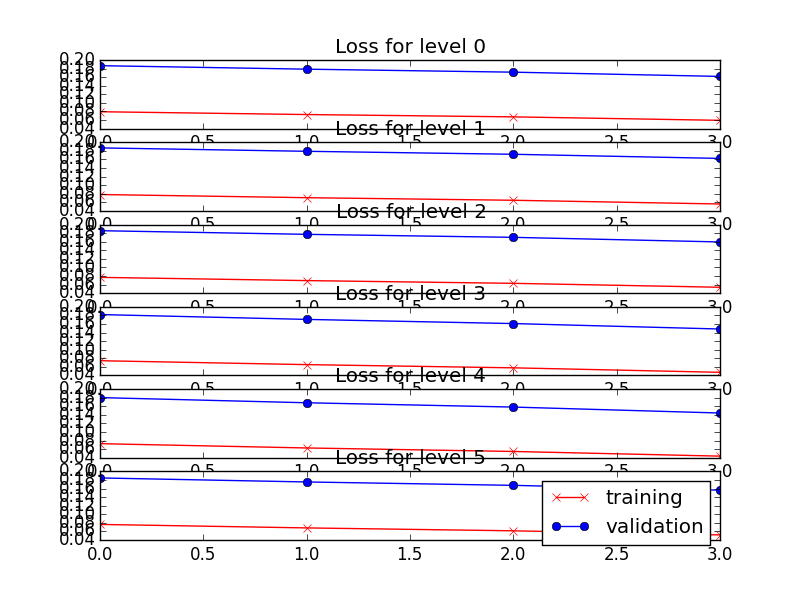
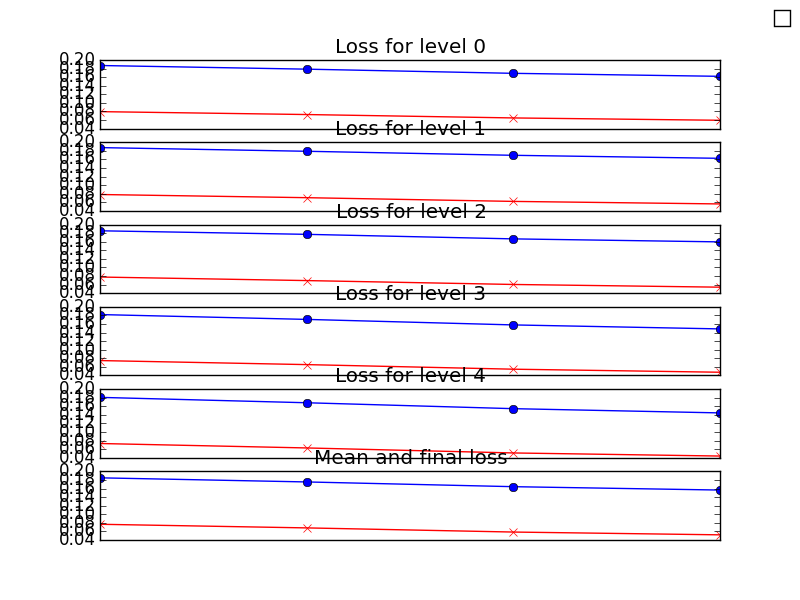
adding loss per level

diff --git a/SGD.py b/SGD.py
@@ -51,7 +51,7 @@ class SGD:
             self.predict = self.predict_max
         elif mode == 'multi':
             self.method = self.learn_multi
-            #self.loss = self.loss_mean
+            self.loss = self.loss_multi
             self.predict = self.predict_multi
             self.w_multi = np.zeros((self.prune_tree_levels,self.n_features))
             self.w_update = np.zeros((self.prune_tree_levels,self.n_features))
@@ -67,12 +67,27 @@ class SGD:
         level_preds, _ = self.predictor.get_iep_levels(img_data, [])
         return np.mean(np.array(level_preds) - img_data.y)**2 + self.alpha * math.sqrt(np.dot(self.w,self.w))
 
+    def loss_multi(self, img_data):
+        level_preds = []
+        for lvl in range(self.prune_tree_levels):
+            predictor = IEP.IEP(self.w_multi[level], 'prediction')
+            level_pred, _ = predictor.iep(img_data, [], level)
+            level_preds.append(level_pred)
+        return np.mean(np.array(level_preds) - img_data.y)**2 + self.alpha * math.sqrt(np.dot(self.w,self.w))
+
     def loss_per_level(self, img_data):
-        level_preds, _ = self.predictor.get_iep_levels(img_data, [])
-        # for images with less levels than prune_tree_levels, just append the last level
-        if len(level_preds) < self.prune_tree_levels:
-            for missing in range(self.prune_tree_levels - len(level_preds)):
-                level_preds.append(level_preds[-1])
+        if self.version == 'multi':
+            level_preds = []
+            for lvl in range(self.prune_tree_levels):
+                predictor = IEP.IEP(self.w_multi[level], 'prediction')
+                level_pred, _ = predictor.iep(img_data, [], level)
+                level_preds.append(level_pred)
+        else:
+            level_preds, _ = self.predictor.get_iep_levels(img_data, [])
+            # for images with less levels than prune_tree_levels, just append the last level
+            if len(level_preds) < self.prune_tree_levels:
+                for missing in range(self.prune_tree_levels - len(level_preds)):
+                    level_preds.append(level_preds[-1])
         return (np.array(level_preds) - img_data.y)**2 + self.alpha * math.sqrt(np.dot(self.w,self.w))
         
     def predict_mean(self, img_data):
@@ -94,7 +109,7 @@ class SGD:
     def predict_multi(self, img_data):
         print 'predict multi'
         preds = []
-        for level in img_data.levels:
+        for level in range(self.prune_tree_levels):
             predictor = IEP.IEP(self.w_multi[level], 'prediction')
             level_pred, _ = predictor.iep(img_data, [], level)
             preds.append(level_pred)
@@ -238,7 +253,7 @@ class SGD:
 
     def learn_multi(self, img_data, functions):
         ret = np.zeros((self.prune_tree_levels,self.n_features))
-        for level in img_data.levels:
+        for level in range(self.prune_tree_levels):
             predictor = IEP.IEP(self.w_multi[level], 'prediction')
             level_pred, _ = predictor.iep(img_data, [], level)
             iep_level, _ = self.learner.iep(img_data, functions, level)
@@ -253,15 +268,6 @@ class SGD:
             iep_level, _ = self.learner.iep(img_data, functions, level)
             self.w += (self.eta * ((preds_level - img_data.y) * -iep_level))#self.w -= (self.eta * (2*(preds_level - img_data.y)*iep_level))
             self.predictor = IEP.IEP(self.w, 'prediction')
-
-    #def learn_really_old(self, img_data):
-        #for level in img_data.levels:
-        #    for f_ in self.w:
-        #        inner_prod += (f_ * x_node[f_])
-        #    dloss = (inner_prod - y_node)
-        #    preds_level = self.predict_old(img_data, level)
-        #    for i_f,f in enumerate(self.w):
-        #        w[f] += (self.eta * ((preds_level - img_data.y) * -iep_level[i_f]))
 
     def learn_ind(self, img_data, functions):
         level_preds = self.predict_ind(img_data)

diff --git a/Output.py b/Output.py
@@ -28,7 +28,7 @@ class Output:
 		self.scaler_category_path = '/var/node436/local/tstahl/models/scaler_%s_pascal.p'%(category)
         self.classifier_path = '/var/node436/local/tstahl/models/classifier_%s.p'%(category)
 	self.feat_var_path = '/var/node436/local/tstahl/plos/feat_var.png'
-	self.loss_path = '/var/node436/local/tstahl/plos/loss_%s_%s_%s_%s_%s.png'
+	self.loss_path = '/var/node436/local/tstahl/plos/loss_%s_%s_%s_%s_%s_%s.png'
         
     def dump_scaler(self, scaler):
         pickle.dump(scaler, open(self.scaler_path, "wb"))
@@ -107,8 +107,8 @@ class Output:
         plt.clf()
         f,ax = plt.subplots(self.prune_tree_levels+1)
         for lvl in range(self.prune_tree_levels+1):
-            l1 = ax[lvl].plot(train[lvl], '-rx', label="training")
-            l2 = ax[lvl].plot(val[lvl], '-bo', label="validation")
+            ax[lvl].plot(train[lvl], '-rx', label="training")
+            ax[lvl].plot(val[lvl], '-bo', label="validation")
             ax[lvl].tick_params(
                 axis='x',          # changes apply to the x-axis
                 which='both',      # both major and minor ticks are affected
@@ -119,6 +119,6 @@ class Output:
                 ax[lvl].title.set_text("Mean and final loss")
             else:
                 ax[lvl].title.set_text("Loss for level %s"%(lvl))
-        f.legend((l1, l2), ('training','validation'), 'upper right')
-        plt.savefig(self.loss_path%(self.experiment,self.prune_tree_levels,eta,self.category, alpha))
+        plt.legend()
+        plt.savefig(self.loss_path%(self.experiment,self.prune_tree_levels,eta,self.category, alpha, self.mode))
         

diff --git a/Experiment1b.py b/Experiment1b.py
@@ -19,17 +19,17 @@ def main():
 
     learn_mode = 'category'
 
-    pred_mode = 'mean'
+    pred_mode = 'multi'
 
-    debug = False
+    debug = True
 
     batch_size = 5
 
-    epochs = 4
+    epochs = 2
 
     subsamples = 10
 
-    for tree_level_size in range(1,6):
+    for tree_level_size in range(5,6):
         #initialize
         print 'initializing', tree_level_size
         #sgd = SGD.SGD('max', category, tree_level_size, batch_size, math.pow(10,-4), 0.003, math.pow(10,-5))
@@ -77,10 +77,7 @@ def main():
                 training_loss = np.array([], dtype=np.int64).reshape(tree_level_size+1,0)
                 validation_loss = np.array([], dtype=np.int64).reshape(tree_level_size+1,0)
                 #sgd_pascal = SGD.SGD('pascal', 'max', category, tree_level_size, batch_size, eta_i, gamma_i, al_i)
-                if tree_level_size >= 1:
-                    sgd_dennis = SGD.SGD('dennis', pred_mode, category, tree_level_size, batch_size, math.pow(10,-6), gamma_i, al_i, 4096)
-                else:
-                    sgd_dennis = SGD.SGD('dennis', pred_mode, category, tree_level_size, batch_size, math.pow(10,-5), gamma_i, al_i, 4096)
+                sgd_dennis = SGD.SGD('dennis', pred_mode, category, tree_level_size, batch_size, math.pow(10,-5), gamma_i, al_i, 4096)
                 sgd_dennis.set_scaler(scaler_dennis)
                 print al_i, gamma_i
                 for epoch in range(epochs):
